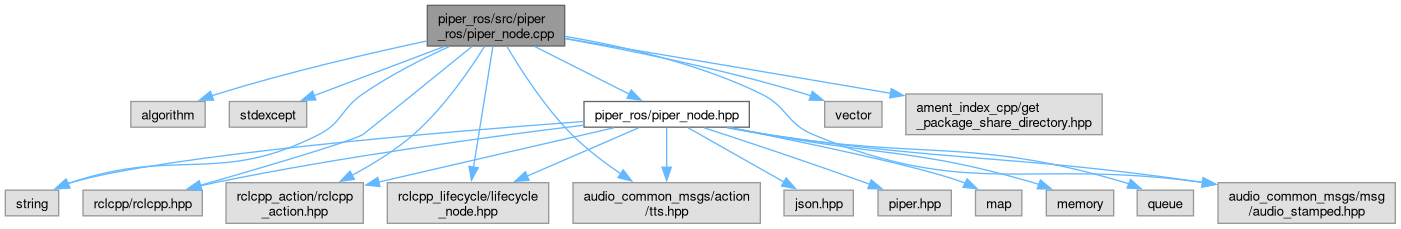
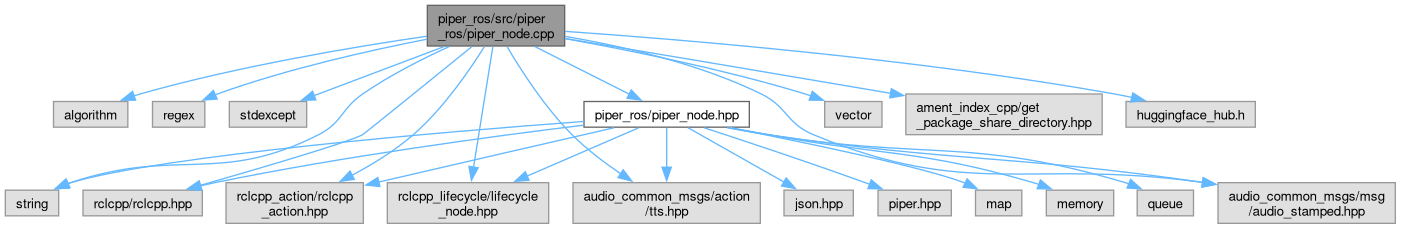
deploy: 452f89dcf8891e9b6a2cd7faa66b158a66a3d3da

diff --git a/piper__node_8hpp_source.html b/piper__node_8hpp_source.html
@@ -227,27 +227,27 @@ $(function(){ initResizable(false); });
 <div class="line"><a id="l00128" name="l00128"></a><span class="lineno">  128</span> </div>
 <div class="line"><a id="l00129" name="l00129"></a><span class="lineno">  129</span><span class="preprocessor">#endif</span></div>
 <div class="ttc" id="aclasspiper__ros_1_1PiperNode_html_a0043047a57d1351d880c9354e9b3247f"><div class="ttname"><a href="classpiper__ros_1_1PiperNode.html#a0043047a57d1351d880c9354e9b3247f">piper_ros::PiperNode::player_pub_</a></div><div class="ttdeci">rclcpp::Publisher&lt; audio_common_msgs::msg::AudioStamped &gt;::SharedPtr player_pub_</div><div class="ttdef"><b>Definition</b> piper_node.hpp:113</div></div>
-<div class="ttc" id="aclasspiper__ros_1_1PiperNode_html_a1690f4feca9a019243fe0d499daaf7b7"><div class="ttname"><a href="classpiper__ros_1_1PiperNode.html#a1690f4feca9a019243fe0d499daaf7b7">piper_ros::PiperNode::on_cleanup</a></div><div class="ttdeci">rclcpp_lifecycle::node_interfaces::LifecycleNodeInterface::CallbackReturn on_cleanup(const rclcpp_lifecycle::State &amp;)</div><div class="ttdef"><b>Definition</b> piper_node.cpp:212</div></div>
+<div class="ttc" id="aclasspiper__ros_1_1PiperNode_html_a1690f4feca9a019243fe0d499daaf7b7"><div class="ttname"><a href="classpiper__ros_1_1PiperNode.html#a1690f4feca9a019243fe0d499daaf7b7">piper_ros::PiperNode::on_cleanup</a></div><div class="ttdeci">rclcpp_lifecycle::node_interfaces::LifecycleNodeInterface::CallbackReturn on_cleanup(const rclcpp_lifecycle::State &amp;)</div><div class="ttdef"><b>Definition</b> piper_node.cpp:288</div></div>
 <div class="ttc" id="aclasspiper__ros_1_1PiperNode_html_a1fd38a9e10c1a3eb78c408495e82e113"><div class="ttname"><a href="classpiper__ros_1_1PiperNode.html#a1fd38a9e10c1a3eb78c408495e82e113">piper_ros::PiperNode::pub_rate</a></div><div class="ttdeci">std::unique_ptr&lt; rclcpp::Rate &gt; pub_rate</div><div class="ttdef"><b>Definition</b> piper_node.hpp:111</div></div>
 <div class="ttc" id="aclasspiper__ros_1_1PiperNode_html_a350426b395440ce7a3702e0e580a22aa"><div class="ttname"><a href="classpiper__ros_1_1PiperNode.html#a350426b395440ce7a3702e0e580a22aa">piper_ros::PiperNode::goal_queue_</a></div><div class="ttdeci">std::queue&lt; std::shared_ptr&lt; GoalHandleTTS &gt; &gt; goal_queue_</div><div class="ttdef"><b>Definition</b> piper_node.hpp:105</div></div>
-<div class="ttc" id="aclasspiper__ros_1_1PiperNode_html_a4114e4c4e6d85ceb9f7e801ab9d7980f"><div class="ttname"><a href="classpiper__ros_1_1PiperNode.html#a4114e4c4e6d85ceb9f7e801ab9d7980f">piper_ros::PiperNode::on_shutdown</a></div><div class="ttdeci">rclcpp_lifecycle::node_interfaces::LifecycleNodeInterface::CallbackReturn on_shutdown(const rclcpp_lifecycle::State &amp;)</div><div class="ttdef"><b>Definition</b> piper_node.cpp:222</div></div>
+<div class="ttc" id="aclasspiper__ros_1_1PiperNode_html_a4114e4c4e6d85ceb9f7e801ab9d7980f"><div class="ttname"><a href="classpiper__ros_1_1PiperNode.html#a4114e4c4e6d85ceb9f7e801ab9d7980f">piper_ros::PiperNode::on_shutdown</a></div><div class="ttdeci">rclcpp_lifecycle::node_interfaces::LifecycleNodeInterface::CallbackReturn on_shutdown(const rclcpp_lifecycle::State &amp;)</div><div class="ttdef"><b>Definition</b> piper_node.cpp:298</div></div>
 <div class="ttc" id="aclasspiper__ros_1_1PiperNode_html_a55e2652b3247f361a425c1a30af44585"><div class="ttname"><a href="classpiper__ros_1_1PiperNode.html#a55e2652b3247f361a425c1a30af44585">piper_ros::PiperNode::voice</a></div><div class="ttdeci">piper::Voice voice</div><div class="ttdef"><b>Definition</b> piper_node.hpp:98</div></div>
 <div class="ttc" id="aclasspiper__ros_1_1PiperNode_html_a5ab24a18761489e1fa6b7706ad3c81f4"><div class="ttname"><a href="classpiper__ros_1_1PiperNode.html#a5ab24a18761489e1fa6b7706ad3c81f4">piper_ros::PiperNode::piper_config</a></div><div class="ttdeci">piper::PiperConfig piper_config</div><div class="ttdef"><b>Definition</b> piper_node.hpp:97</div></div>
 <div class="ttc" id="aclasspiper__ros_1_1PiperNode_html_a69623d5bbb89451786e2cf95d93dc942"><div class="ttname"><a href="classpiper__ros_1_1PiperNode.html#a69623d5bbb89451786e2cf95d93dc942">piper_ros::PiperNode::run_config</a></div><div class="ttdeci">struct RunConfig run_config</div><div class="ttdef"><b>Definition</b> piper_node.hpp:96</div></div>
-<div class="ttc" id="aclasspiper__ros_1_1PiperNode_html_a852c3d5965159bc59aa5741bb4c1c8e6"><div class="ttname"><a href="classpiper__ros_1_1PiperNode.html#a852c3d5965159bc59aa5741bb4c1c8e6">piper_ros::PiperNode::handle_accepted</a></div><div class="ttdeci">void handle_accepted(const std::shared_ptr&lt; GoalHandleTTS &gt; goal_handle)</div><div class="ttdef"><b>Definition</b> piper_node.cpp:246</div></div>
-<div class="ttc" id="aclasspiper__ros_1_1PiperNode_html_a8b8d4e913e3da8d1db7111fc77f07b87"><div class="ttname"><a href="classpiper__ros_1_1PiperNode.html#a8b8d4e913e3da8d1db7111fc77f07b87">piper_ros::PiperNode::on_deactivate</a></div><div class="ttdeci">rclcpp_lifecycle::node_interfaces::LifecycleNodeInterface::CallbackReturn on_deactivate(const rclcpp_lifecycle::State &amp;)</div><div class="ttdef"><b>Definition</b> piper_node.cpp:195</div></div>
-<div class="ttc" id="aclasspiper__ros_1_1PiperNode_html_a95df6a9298aa7ed6da4c53953737e4c8"><div class="ttname"><a href="classpiper__ros_1_1PiperNode.html#a95df6a9298aa7ed6da4c53953737e4c8">piper_ros::PiperNode::PiperNode</a></div><div class="ttdeci">PiperNode()</div><div class="ttdef"><b>Definition</b> piper_node.cpp:42</div></div>
-<div class="ttc" id="aclasspiper__ros_1_1PiperNode_html_a96c22c5b763a82b25467bd3a901b3eeb"><div class="ttname"><a href="classpiper__ros_1_1PiperNode.html#a96c22c5b763a82b25467bd3a901b3eeb">piper_ros::PiperNode::execute_callback</a></div><div class="ttdeci">void execute_callback(const std::shared_ptr&lt; GoalHandleTTS &gt; goal_handle)</div><div class="ttdef"><b>Definition</b> piper_node.cpp:273</div></div>
-<div class="ttc" id="aclasspiper__ros_1_1PiperNode_html_abc3aceef7734d178c6cc8e7a9fa8fe16"><div class="ttname"><a href="classpiper__ros_1_1PiperNode.html#abc3aceef7734d178c6cc8e7a9fa8fe16">piper_ros::PiperNode::run_next_goal</a></div><div class="ttdeci">void run_next_goal()</div><div class="ttdef"><b>Definition</b> piper_node.cpp:258</div></div>
+<div class="ttc" id="aclasspiper__ros_1_1PiperNode_html_a852c3d5965159bc59aa5741bb4c1c8e6"><div class="ttname"><a href="classpiper__ros_1_1PiperNode.html#a852c3d5965159bc59aa5741bb4c1c8e6">piper_ros::PiperNode::handle_accepted</a></div><div class="ttdeci">void handle_accepted(const std::shared_ptr&lt; GoalHandleTTS &gt; goal_handle)</div><div class="ttdef"><b>Definition</b> piper_node.cpp:322</div></div>
+<div class="ttc" id="aclasspiper__ros_1_1PiperNode_html_a8b8d4e913e3da8d1db7111fc77f07b87"><div class="ttname"><a href="classpiper__ros_1_1PiperNode.html#a8b8d4e913e3da8d1db7111fc77f07b87">piper_ros::PiperNode::on_deactivate</a></div><div class="ttdeci">rclcpp_lifecycle::node_interfaces::LifecycleNodeInterface::CallbackReturn on_deactivate(const rclcpp_lifecycle::State &amp;)</div><div class="ttdef"><b>Definition</b> piper_node.cpp:271</div></div>
+<div class="ttc" id="aclasspiper__ros_1_1PiperNode_html_a95df6a9298aa7ed6da4c53953737e4c8"><div class="ttname"><a href="classpiper__ros_1_1PiperNode.html#a95df6a9298aa7ed6da4c53953737e4c8">piper_ros::PiperNode::PiperNode</a></div><div class="ttdeci">PiperNode()</div><div class="ttdef"><b>Definition</b> piper_node.cpp:44</div></div>
+<div class="ttc" id="aclasspiper__ros_1_1PiperNode_html_a96c22c5b763a82b25467bd3a901b3eeb"><div class="ttname"><a href="classpiper__ros_1_1PiperNode.html#a96c22c5b763a82b25467bd3a901b3eeb">piper_ros::PiperNode::execute_callback</a></div><div class="ttdeci">void execute_callback(const std::shared_ptr&lt; GoalHandleTTS &gt; goal_handle)</div><div class="ttdef"><b>Definition</b> piper_node.cpp:349</div></div>
+<div class="ttc" id="aclasspiper__ros_1_1PiperNode_html_abc3aceef7734d178c6cc8e7a9fa8fe16"><div class="ttname"><a href="classpiper__ros_1_1PiperNode.html#abc3aceef7734d178c6cc8e7a9fa8fe16">piper_ros::PiperNode::run_next_goal</a></div><div class="ttdeci">void run_next_goal()</div><div class="ttdef"><b>Definition</b> piper_node.cpp:334</div></div>
 <div class="ttc" id="aclasspiper__ros_1_1PiperNode_html_ac44f417870f1faf8e162e0e89350a7c1"><div class="ttname"><a href="classpiper__ros_1_1PiperNode.html#ac44f417870f1faf8e162e0e89350a7c1">piper_ros::PiperNode::frame_id_</a></div><div class="ttdeci">std::string frame_id_</div><div class="ttdef"><b>Definition</b> piper_node.hpp:102</div></div>
-<div class="ttc" id="aclasspiper__ros_1_1PiperNode_html_accebb916488754f523cff0adde92c05c"><div class="ttname"><a href="classpiper__ros_1_1PiperNode.html#accebb916488754f523cff0adde92c05c">piper_ros::PiperNode::on_activate</a></div><div class="ttdeci">rclcpp_lifecycle::node_interfaces::LifecycleNodeInterface::CallbackReturn on_activate(const rclcpp_lifecycle::State &amp;)</div><div class="ttdef"><b>Definition</b> piper_node.cpp:112</div></div>
-<div class="ttc" id="aclasspiper__ros_1_1PiperNode_html_acf3bf1f92fa8889e3463390e44337507"><div class="ttname"><a href="classpiper__ros_1_1PiperNode.html#acf3bf1f92fa8889e3463390e44337507">piper_ros::PiperNode::on_configure</a></div><div class="ttdeci">rclcpp_lifecycle::node_interfaces::LifecycleNodeInterface::CallbackReturn on_configure(const rclcpp_lifecycle::State &amp;)</div><div class="ttdef"><b>Definition</b> piper_node.cpp:69</div></div>
+<div class="ttc" id="aclasspiper__ros_1_1PiperNode_html_accebb916488754f523cff0adde92c05c"><div class="ttname"><a href="classpiper__ros_1_1PiperNode.html#accebb916488754f523cff0adde92c05c">piper_ros::PiperNode::on_activate</a></div><div class="ttdeci">rclcpp_lifecycle::node_interfaces::LifecycleNodeInterface::CallbackReturn on_activate(const rclcpp_lifecycle::State &amp;)</div><div class="ttdef"><b>Definition</b> piper_node.cpp:188</div></div>
+<div class="ttc" id="aclasspiper__ros_1_1PiperNode_html_acf3bf1f92fa8889e3463390e44337507"><div class="ttname"><a href="classpiper__ros_1_1PiperNode.html#acf3bf1f92fa8889e3463390e44337507">piper_ros::PiperNode::on_configure</a></div><div class="ttdeci">rclcpp_lifecycle::node_interfaces::LifecycleNodeInterface::CallbackReturn on_configure(const rclcpp_lifecycle::State &amp;)</div><div class="ttdef"><b>Definition</b> piper_node.cpp:117</div></div>
 <div class="ttc" id="aclasspiper__ros_1_1PiperNode_html_ad14088e73186e87f59d3d4ee2b62b40a"><div class="ttname"><a href="classpiper__ros_1_1PiperNode.html#ad14088e73186e87f59d3d4ee2b62b40a">piper_ros::PiperNode::chunk_</a></div><div class="ttdeci">int chunk_</div><div class="ttdef"><b>Definition</b> piper_node.hpp:101</div></div>
-<div class="ttc" id="aclasspiper__ros_1_1PiperNode_html_ad3863421ff2f8ab8abc025b1698ad781"><div class="ttname"><a href="classpiper__ros_1_1PiperNode.html#ad3863421ff2f8ab8abc025b1698ad781">piper_ros::PiperNode::handle_goal</a></div><div class="ttdeci">rclcpp_action::GoalResponse handle_goal(const rclcpp_action::GoalUUID &amp;uuid, std::shared_ptr&lt; const TTS::Goal &gt; goal)</div><div class="ttdef"><b>Definition</b> piper_node.cpp:232</div></div>
+<div class="ttc" id="aclasspiper__ros_1_1PiperNode_html_ad3863421ff2f8ab8abc025b1698ad781"><div class="ttname"><a href="classpiper__ros_1_1PiperNode.html#ad3863421ff2f8ab8abc025b1698ad781">piper_ros::PiperNode::handle_goal</a></div><div class="ttdeci">rclcpp_action::GoalResponse handle_goal(const rclcpp_action::GoalUUID &amp;uuid, std::shared_ptr&lt; const TTS::Goal &gt; goal)</div><div class="ttdef"><b>Definition</b> piper_node.cpp:308</div></div>
 <div class="ttc" id="aclasspiper__ros_1_1PiperNode_html_adb724d26f0b79057f51ea780ddb3ab66"><div class="ttname"><a href="classpiper__ros_1_1PiperNode.html#adb724d26f0b79057f51ea780ddb3ab66">piper_ros::PiperNode::pub_lock_</a></div><div class="ttdeci">std::mutex pub_lock_</div><div class="ttdef"><b>Definition</b> piper_node.hpp:110</div></div>
 <div class="ttc" id="aclasspiper__ros_1_1PiperNode_html_adda2d8d3cb02f34c3a58abde3f708b97"><div class="ttname"><a href="classpiper__ros_1_1PiperNode.html#adda2d8d3cb02f34c3a58abde3f708b97">piper_ros::PiperNode::current_goal_handle_</a></div><div class="ttdeci">std::shared_ptr&lt; GoalHandleTTS &gt; current_goal_handle_</div><div class="ttdef"><b>Definition</b> piper_node.hpp:107</div></div>
 <div class="ttc" id="aclasspiper__ros_1_1PiperNode_html_af41d9025f6aa3d0157ae43207017c3e0"><div class="ttname"><a href="classpiper__ros_1_1PiperNode.html#af41d9025f6aa3d0157ae43207017c3e0">piper_ros::PiperNode::goal_queue_lock_</a></div><div class="ttdeci">std::recursive_mutex goal_queue_lock_</div><div class="ttdef"><b>Definition</b> piper_node.hpp:106</div></div>
-<div class="ttc" id="aclasspiper__ros_1_1PiperNode_html_af566c695911d4a16161b44811bde1637"><div class="ttname"><a href="classpiper__ros_1_1PiperNode.html#af566c695911d4a16161b44811bde1637">piper_ros::PiperNode::handle_cancel</a></div><div class="ttdeci">rclcpp_action::CancelResponse handle_cancel(const std::shared_ptr&lt; GoalHandleTTS &gt; goal_handle)</div><div class="ttdef"><b>Definition</b> piper_node.cpp:240</div></div>
+<div class="ttc" id="aclasspiper__ros_1_1PiperNode_html_af566c695911d4a16161b44811bde1637"><div class="ttname"><a href="classpiper__ros_1_1PiperNode.html#af566c695911d4a16161b44811bde1637">piper_ros::PiperNode::handle_cancel</a></div><div class="ttdeci">rclcpp_action::CancelResponse handle_cancel(const std::shared_ptr&lt; GoalHandleTTS &gt; goal_handle)</div><div class="ttdef"><b>Definition</b> piper_node.cpp:316</div></div>
 <div class="ttc" id="aclasspiper__ros_1_1PiperNode_html_afd2c69ac1c299ce5719ade6a831b67f2"><div class="ttname"><a href="classpiper__ros_1_1PiperNode.html#afd2c69ac1c299ce5719ade6a831b67f2">piper_ros::PiperNode::action_server_</a></div><div class="ttdeci">rclcpp_action::Server&lt; TTS &gt;::SharedPtr action_server_</div><div class="ttdef"><b>Definition</b> piper_node.hpp:116</div></div>
 <div class="ttc" id="anamespacepiper__ros_html"><div class="ttname"><a href="namespacepiper__ros.html">piper_ros</a></div><div class="ttdef"><b>Definition</b> piper_node.hpp:41</div></div>
 <div class="ttc" id="anamespacepiper__ros_html_aa59fcda3c0955633c1e1b68f9aa97dc1"><div class="ttname"><a href="namespacepiper__ros.html#aa59fcda3c0955633c1e1b68f9aa97dc1">piper_ros::GoalHandleTTS</a></div><div class="ttdeci">rclcpp_action::ServerGoalHandle&lt; TTS &gt; GoalHandleTTS</div><div class="ttdef"><b>Definition</b> piper_node.hpp:44</div></div>

diff --git a/piper__node_8cpp.html b/piper__node_8cpp.html
@@ -88,10 +88,13 @@ $(function(){ initResizable(false); });
 </div><!-- top -->
 <div id="doc-content">
 <div class="header">
+  <div class="summary">
+<a href="#func-members">Functions</a>  </div>
   <div class="headertitle"><div class="title">piper_node.cpp File Reference</div></div>
 </div><!--header-->
 <div class="contents">
 <div class="textblock"><code>#include &lt;algorithm&gt;</code><br />
+<code>#include &lt;regex&gt;</code><br />
 <code>#include &lt;stdexcept&gt;</code><br />
 <code>#include &lt;string&gt;</code><br />
 <code>#include &lt;vector&gt;</code><br />
@@ -101,6 +104,7 @@ $(function(){ initResizable(false); });
 <code>#include &lt;rclcpp_lifecycle/lifecycle_node.hpp&gt;</code><br />
 <code>#include &quot;audio_common_msgs/action/tts.hpp&quot;</code><br />
 <code>#include &quot;audio_common_msgs/msg/audio_stamped.hpp&quot;</code><br />
+<code>#include &quot;huggingface_hub.h&quot;</code><br />
 <code>#include &quot;<a class="el" href="piper__node_8hpp_source.html">piper_ros/piper_node.hpp</a>&quot;</code><br />
 </div><div class="textblock"><div class="dynheader">
 Include dependency graph for piper_node.cpp:</div>
@@ -108,8 +112,10 @@ Include dependency graph for piper_node.cpp:</div>
 <div class="center"><img src="piper__node_8cpp__incl.png" border="0" usemap="#apiper__ros_2src_2piper__ros_2piper__node_8cpp" alt=""/></div>
 <map name="apiper__ros_2src_2piper__ros_2piper__node_8cpp" id="apiper__ros_2src_2piper__ros_2piper__node_8cpp">
 <area shape="rect" title=" " alt="" coords="427,5,565,46"/>
-<area shape="rect" title=" " alt="" coords="131,102,205,127"/>
-<area shape="poly" title=" " alt="" coords="428,44,328,66,218,97,213,98,211,93,217,91,327,61,427,38"/>
+<area shape="rect" title=" " alt="" coords="54,102,128,127"/>
+<area shape="poly" title=" " alt="" coords="427,39,294,61,141,97,134,98,133,93,139,91,293,56,426,34"/>
+<area shape="rect" title=" " alt="" coords="152,102,205,127"/>
+<area shape="poly" title=" " alt="" coords="428,42,328,64,218,97,216,97,214,92,216,91,326,59,427,37"/>
 <area shape="rect" title=" " alt="" coords="229,102,307,127"/>
 <area shape="poly" title=" " alt="" coords="445,49,315,98,313,93,443,44"/>
 <area shape="rect" title=" " alt="" coords="5,190,59,216"/>
@@ -128,6 +134,8 @@ Include dependency graph for piper_node.cpp:</div>
 <area shape="poly" title=" " alt="" coords="509,45,536,87,574,133,622,172,619,176,570,137,532,90,505,48"/>
 <area shape="rect" title=" " alt="" coords="1218,183,1395,223"/>
 <area shape="poly" title=" " alt="" coords="566,34,661,55,713,71,763,92,778,102,789,113,799,123,814,132,869,152,917,164,960,169,1002,171,1091,171,1143,173,1203,180,1203,185,1142,179,1091,177,1002,177,960,175,916,169,867,157,812,137,796,128,785,117,775,106,760,96,711,76,660,60,565,39"/>
+<area shape="rect" title=" " alt="" coords="1126,102,1255,127"/>
+<area shape="poly" title=" " alt="" coords="565,29,809,50,962,68,1115,91,1133,95,1132,100,1114,97,961,73,808,55,565,34"/>
 <area shape="rect" href="piper__node_8hpp.html" title=" " alt="" coords="584,102,749,127"/>
 <area shape="poly" title=" " alt="" coords="536,44,630,92,628,97,534,49"/>
 <area shape="poly" title=" " alt="" coords="584,124,310,148,171,166,71,185,68,186,66,181,70,180,170,160,310,143,584,119"/>
@@ -148,7 +156,58 @@ Include dependency graph for piper_node.cpp:</div>
 <area shape="poly" title=" " alt="" coords="705,125,866,180,871,182,869,187,864,185,703,130"/>
 </map>
 </div>
-</div></div><!-- contents -->
+</div><table class="memberdecls">
+<tr class="heading"><td colspan="2"><h2 class="groupheader"><a id="func-members" name="func-members"></a>
+Functions</h2></td></tr>
+<tr class="memitem:af3135254532f4e5820f337087c53acc1" id="r_af3135254532f4e5820f337087c53acc1"><td class="memItemLeft" align="right" valign="top">std::string&#160;</td><td class="memItemRight" valign="bottom"><a class="el" href="#af3135254532f4e5820f337087c53acc1">hf_hub_download</a> (const std::string &amp;repo_id, const std::string &amp;filename)</td></tr>
+<tr class="separator:af3135254532f4e5820f337087c53acc1"><td class="memSeparator" colspan="2">&#160;</td></tr>
+<tr class="memitem:a99614ec81d031434d959534b879b894b" id="r_a99614ec81d031434d959534b879b894b"><td class="memItemLeft" align="right" valign="top">std::string&#160;</td><td class="memItemRight" valign="bottom"><a class="el" href="#a99614ec81d031434d959534b879b894b">download_model</a> (const std::string &amp;repo, const std::string &amp;file)</td></tr>
+<tr class="separator:a99614ec81d031434d959534b879b894b"><td class="memSeparator" colspan="2">&#160;</td></tr>
+</table>
+<h2 class="groupheader">Function Documentation</h2>
+<a id="a99614ec81d031434d959534b879b894b" name="a99614ec81d031434d959534b879b894b"></a>
+<h2 class="memtitle"><span class="permalink"><a href="#a99614ec81d031434d959534b879b894b">&#9670;&#160;</a></span>download_model()</h2>
+
+<div class="memitem">
+<div class="memproto">
+      <table class="memname">
+        <tr>
+          <td class="memname">std::string download_model </td>
+          <td>(</td>
+          <td class="paramtype">const std::string &amp;</td>          <td class="paramname"><span class="paramname"><em>repo</em></span>, </td>
+        </tr>
+        <tr>
+          <td class="paramkey"></td>
+          <td></td>
+          <td class="paramtype">const std::string &amp;</td>          <td class="paramname"><span class="paramname"><em>file</em></span>&#160;)</td>
+        </tr>
+      </table>
+</div><div class="memdoc">
+
+</div>
+</div>
+<a id="af3135254532f4e5820f337087c53acc1" name="af3135254532f4e5820f337087c53acc1"></a>
+<h2 class="memtitle"><span class="permalink"><a href="#af3135254532f4e5820f337087c53acc1">&#9670;&#160;</a></span>hf_hub_download()</h2>
+
+<div class="memitem">
+<div class="memproto">
+      <table class="memname">
+        <tr>
+          <td class="memname">std::string hf_hub_download </td>
+          <td>(</td>
+          <td class="paramtype">const std::string &amp;</td>          <td class="paramname"><span class="paramname"><em>repo_id</em></span>, </td>
+        </tr>
+        <tr>
+          <td class="paramkey"></td>
+          <td></td>
+          <td class="paramtype">const std::string &amp;</td>          <td class="paramname"><span class="paramname"><em>filename</em></span>&#160;)</td>
+        </tr>
+      </table>
+</div><div class="memdoc">
+
+</div>
+</div>
+</div><!-- contents -->
 <!-- start footer part -->
 <hr class="footer"/><address class="footer"><small>
 Generated by&#160;<a href="https://www.doxygen.org/index.html"><img class="footer" src="doxygen.svg" width="104" height="31" alt="doxygen"/></a> 1.13.2

diff --git a/search/functions_5.js b/search/functions_5.js
@@ -1,4 +1,8 @@
 var searchData=
 [
-  ['pipernode_0',['PiperNode',['../classpiper__ros_1_1PiperNode.html#a95df6a9298aa7ed6da4c53953737e4c8',1,'piper_ros::PiperNode']]]
+  ['on_5factivate_0',['on_activate',['../classpiper__ros_1_1PiperNode.html#accebb916488754f523cff0adde92c05c',1,'piper_ros::PiperNode']]],
+  ['on_5fcleanup_1',['on_cleanup',['../classpiper__ros_1_1PiperNode.html#a1690f4feca9a019243fe0d499daaf7b7',1,'piper_ros::PiperNode']]],
+  ['on_5fconfigure_2',['on_configure',['../classpiper__ros_1_1PiperNode.html#acf3bf1f92fa8889e3463390e44337507',1,'piper_ros::PiperNode']]],
+  ['on_5fdeactivate_3',['on_deactivate',['../classpiper__ros_1_1PiperNode.html#a8b8d4e913e3da8d1db7111fc77f07b87',1,'piper_ros::PiperNode']]],
+  ['on_5fshutdown_4',['on_shutdown',['../classpiper__ros_1_1PiperNode.html#a4114e4c4e6d85ceb9f7e801ab9d7980f',1,'piper_ros::PiperNode']]]
 ];

diff --git a/search/functions_4.js b/search/functions_4.js
@@ -1,8 +1,4 @@
 var searchData=
 [
-  ['on_5factivate_0',['on_activate',['../classpiper__ros_1_1PiperNode.html#accebb916488754f523cff0adde92c05c',1,'piper_ros::PiperNode']]],
-  ['on_5fcleanup_1',['on_cleanup',['../classpiper__ros_1_1PiperNode.html#a1690f4feca9a019243fe0d499daaf7b7',1,'piper_ros::PiperNode']]],
-  ['on_5fconfigure_2',['on_configure',['../classpiper__ros_1_1PiperNode.html#acf3bf1f92fa8889e3463390e44337507',1,'piper_ros::PiperNode']]],
-  ['on_5fdeactivate_3',['on_deactivate',['../classpiper__ros_1_1PiperNode.html#a8b8d4e913e3da8d1db7111fc77f07b87',1,'piper_ros::PiperNode']]],
-  ['on_5fshutdown_4',['on_shutdown',['../classpiper__ros_1_1PiperNode.html#a4114e4c4e6d85ceb9f7e801ab9d7980f',1,'piper_ros::PiperNode']]]
+  ['main_0',['main',['../piper__main_8cpp.html#a0ddf1224851353fc92bfbff6f499fa97',1,'piper_main.cpp']]]
 ];

diff --git a/search/all_6.js b/search/all_6.js
@@ -2,5 +2,6 @@ var searchData=
 [
   ['handle_5faccepted_0',['handle_accepted',['../classpiper__ros_1_1PiperNode.html#a852c3d5965159bc59aa5741bb4c1c8e6',1,'piper_ros::PiperNode']]],
   ['handle_5fcancel_1',['handle_cancel',['../classpiper__ros_1_1PiperNode.html#af566c695911d4a16161b44811bde1637',1,'piper_ros::PiperNode']]],
-  ['handle_5fgoal_2',['handle_goal',['../classpiper__ros_1_1PiperNode.html#ad3863421ff2f8ab8abc025b1698ad781',1,'piper_ros::PiperNode']]]
+  ['handle_5fgoal_2',['handle_goal',['../classpiper__ros_1_1PiperNode.html#ad3863421ff2f8ab8abc025b1698ad781',1,'piper_ros::PiperNode']]],
+  ['hf_5fhub_5fdownload_3',['hf_hub_download',['../piper__node_8cpp.html#af3135254532f4e5820f337087c53acc1',1,'piper_node.cpp']]]
 ];

diff --git a/search/functions_3.js b/search/functions_3.js
@@ -1,4 +1,7 @@
 var searchData=
 [
-  ['main_0',['main',['../piper__main_8cpp.html#a0ddf1224851353fc92bfbff6f499fa97',1,'piper_main.cpp']]]
+  ['handle_5faccepted_0',['handle_accepted',['../classpiper__ros_1_1PiperNode.html#a852c3d5965159bc59aa5741bb4c1c8e6',1,'piper_ros::PiperNode']]],
+  ['handle_5fcancel_1',['handle_cancel',['../classpiper__ros_1_1PiperNode.html#af566c695911d4a16161b44811bde1637',1,'piper_ros::PiperNode']]],
+  ['handle_5fgoal_2',['handle_goal',['../classpiper__ros_1_1PiperNode.html#ad3863421ff2f8ab8abc025b1698ad781',1,'piper_ros::PiperNode']]],
+  ['hf_5fhub_5fdownload_3',['hf_hub_download',['../piper__node_8cpp.html#af3135254532f4e5820f337087c53acc1',1,'piper_node.cpp']]]
 ];

diff --git a/globals.html b/globals.html
@@ -85,6 +85,8 @@ $(function(){ initResizable(false); });
 
 <div class="contents">
 <div class="textblock">Here is a list of all file members with links to the files they belong to:</div><ul>
+<li>download_model()&#160;:&#160;<a class="el" href="piper__node_8cpp.html#a99614ec81d031434d959534b879b894b">piper_node.cpp</a></li>
+<li>hf_hub_download()&#160;:&#160;<a class="el" href="piper__node_8cpp.html#af3135254532f4e5820f337087c53acc1">piper_node.cpp</a></li>
 <li>main()&#160;:&#160;<a class="el" href="piper__main_8cpp.html#a0ddf1224851353fc92bfbff6f499fa97">piper_main.cpp</a></li>
 </ul>
 </div><!-- contents -->

diff --git a/globals_func.html b/globals_func.html
@@ -85,6 +85,8 @@ $(function(){ initResizable(false); });
 
 <div class="contents">
 <div class="textblock">Here is a list of all functions with links to the files they belong to:</div><ul>
+<li>download_model()&#160;:&#160;<a class="el" href="piper__node_8cpp.html#a99614ec81d031434d959534b879b894b">piper_node.cpp</a></li>
+<li>hf_hub_download()&#160;:&#160;<a class="el" href="piper__node_8cpp.html#af3135254532f4e5820f337087c53acc1">piper_node.cpp</a></li>
 <li>main()&#160;:&#160;<a class="el" href="piper__main_8cpp.html#a0ddf1224851353fc92bfbff6f499fa97">piper_main.cpp</a></li>
 </ul>
 </div><!-- contents -->

diff --git a/search/functions_2.js b/search/functions_2.js
@@ -1,6 +1,4 @@
 var searchData=
 [
-  ['handle_5faccepted_0',['handle_accepted',['../classpiper__ros_1_1PiperNode.html#a852c3d5965159bc59aa5741bb4c1c8e6',1,'piper_ros::PiperNode']]],
-  ['handle_5fcancel_1',['handle_cancel',['../classpiper__ros_1_1PiperNode.html#af566c695911d4a16161b44811bde1637',1,'piper_ros::PiperNode']]],
-  ['handle_5fgoal_2',['handle_goal',['../classpiper__ros_1_1PiperNode.html#ad3863421ff2f8ab8abc025b1698ad781',1,'piper_ros::PiperNode']]]
+  ['generate_5flaunch_5fdescription_0',['generate_launch_description',['../namespacepiper.html#a64ccbac75768293de71b2fdc134e93c4',1,'piper']]]
 ];

diff --git a/index.html b/index.html
@@ -115,7 +115,6 @@ Installation</h1>
 <div class="fragment"><div class="line">cd ~/ros2_ws/src</div>
 <div class="line">git clone https://github.com/mgonzs13/audio_common.git</div>
 <div class="line">git clone https://github.com/mgonzs13/piper_ros.git</div>
-<div class="line">pip3 install -r piper_ros/requirements.txt</div>
 <div class="line">cd ~/ros2_ws</div>
 <div class="line">rosdep install --from-paths src --ignore-src -r -y</div>
 <div class="line">colcon build</div>

diff --git a/doxygen_crawl.html b/doxygen_crawl.html
@@ -74,6 +74,8 @@
 <a href="piper__main_8cpp.html"/>
 <a href="piper__main_8cpp.html#a0ddf1224851353fc92bfbff6f499fa97"/>
 <a href="piper__node_8cpp.html"/>
+<a href="piper__node_8cpp.html#a99614ec81d031434d959534b879b894b"/>
+<a href="piper__node_8cpp.html#af3135254532f4e5820f337087c53acc1"/>
 <a href="piper__node_8hpp.html"/>
 <a href="piper__node_8hpp_source.html"/>
 <a href="structpiper__ros_1_1RunConfig-members.html"/>

diff --git a/search/functions_1.js b/search/functions_1.js
@@ -1,4 +1,4 @@
 var searchData=
 [
-  ['generate_5flaunch_5fdescription_0',['generate_launch_description',['../namespacepiper.html#a64ccbac75768293de71b2fdc134e93c4',1,'piper']]]
+  ['execute_5fcallback_0',['execute_callback',['../classpiper__ros_1_1PiperNode.html#a96c22c5b763a82b25467bd3a901b3eeb',1,'piper_ros::PiperNode']]]
 ];
